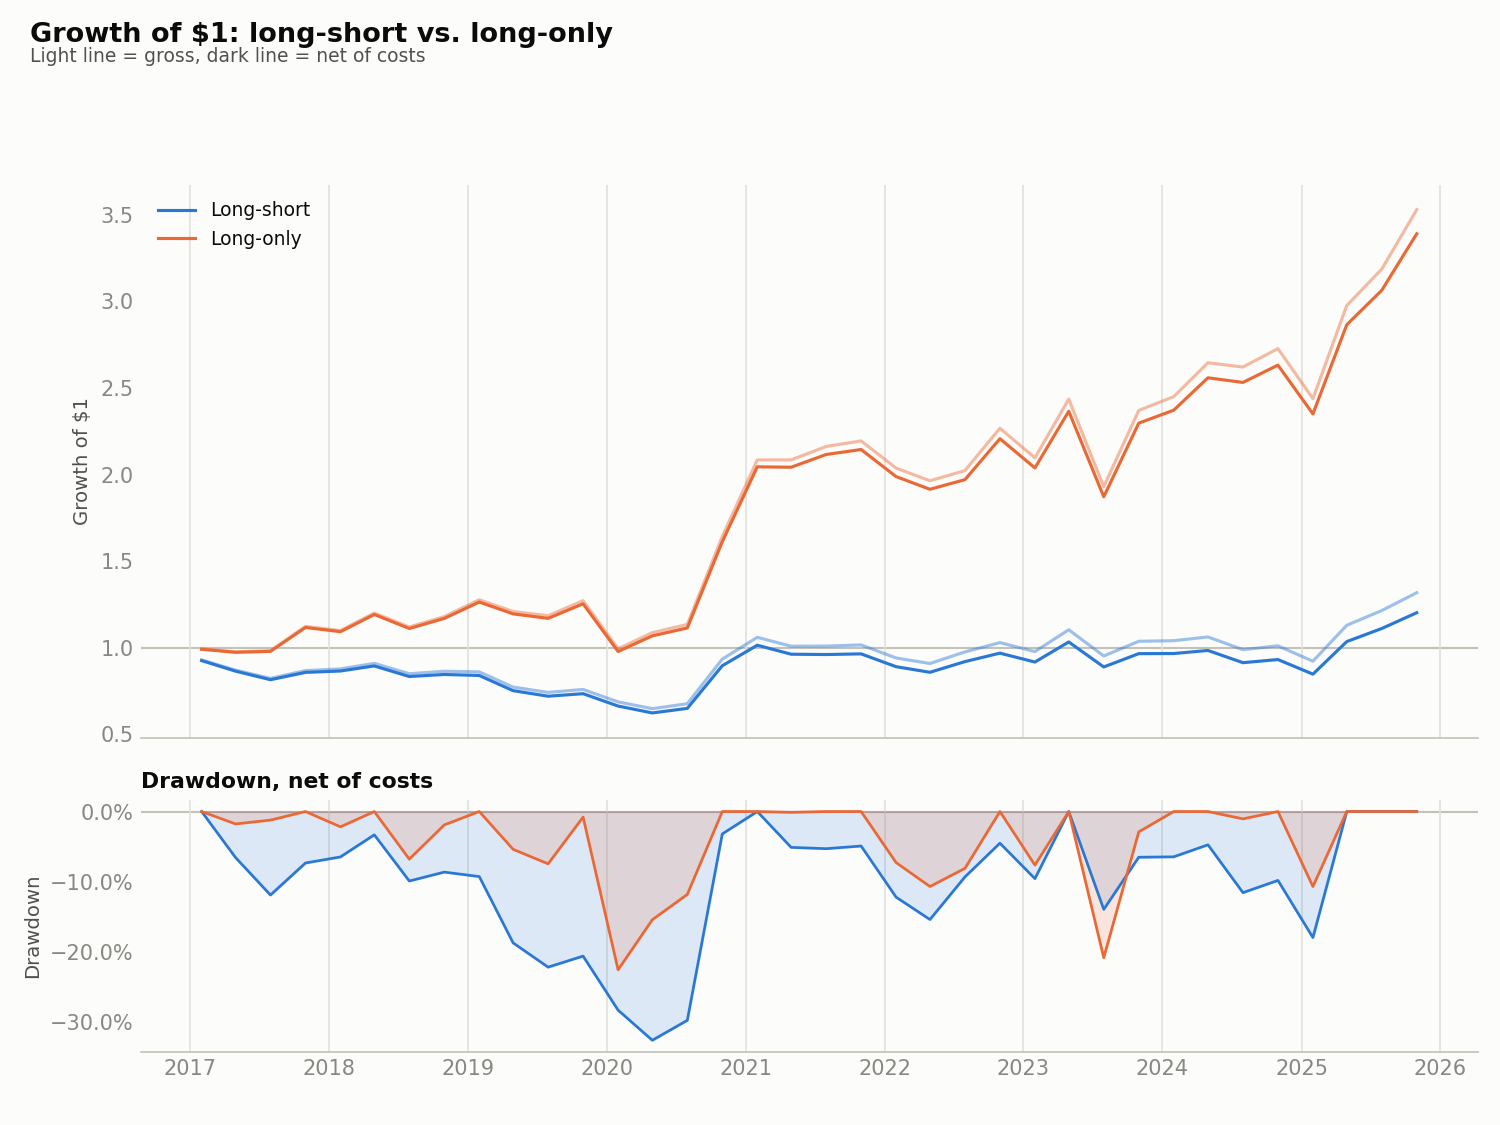
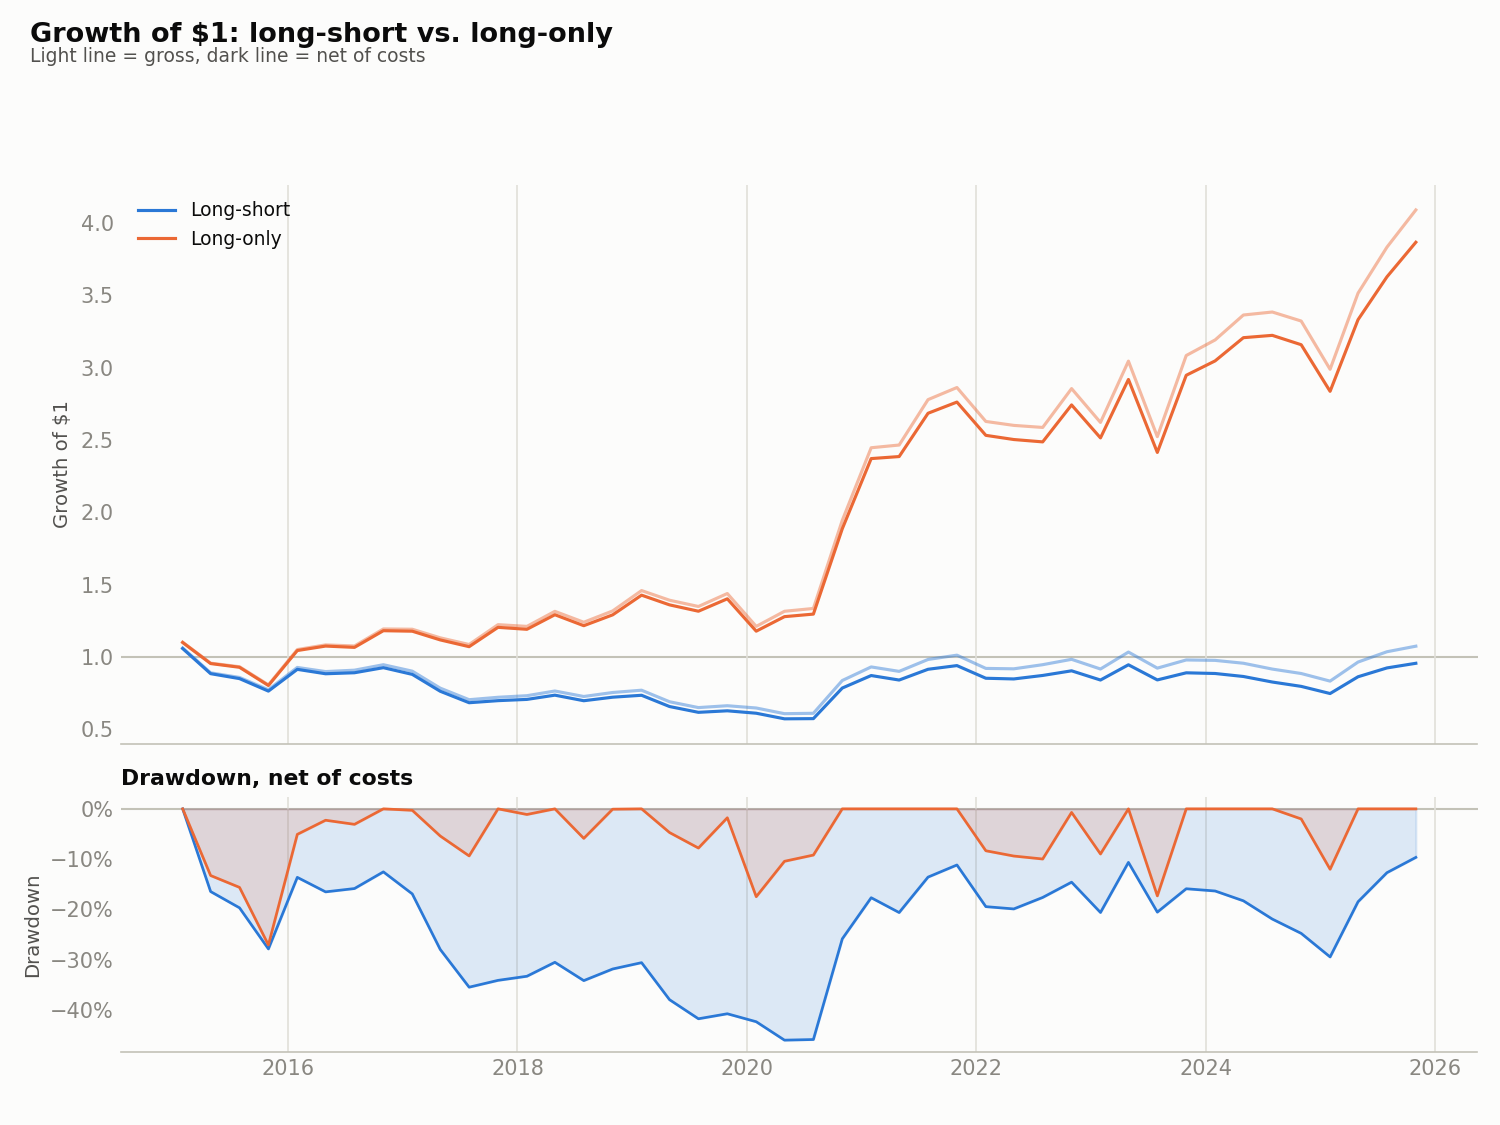
long-short to only long

diff --git a/src/visualize.py b/src/visualize.py
@@ -1,18 +1,19 @@
 """
 visualize.py
 
-Turns output/model_comparison.csv into a single at-a-glance figure. The
-comparison table's real story is gross-vs-net (the cost impact) and whether
-the Sharpe edge clears statistical significance -- so each panel is a
-dumbbell (gross -> net) per model rather than a plain bar chart, with the
-Sharpe panel additionally showing its bootstrap 95% CI and p-value.
+Turns output/portfolio_construction_comparison.csv into a single
+at-a-glance figure. The comparison table's real story is gross-vs-net
+(the cost impact) and whether the Sharpe edge clears statistical
+significance -- so each panel is a dumbbell (gross -> net) per row
+rather than a plain bar chart, with the Sharpe panel additionally
+showing its bootstrap 95% CI and p-value.
 
 Run standalone:
 
     python src/visualize.py
 
-or import plot_model_comparison() and call it right after
-compare_models(...).to_csv(...) in main.py.
+or import plot_portfolio_construction_comparison() and call it right
+after compare_portfolio_constructions(...).to_csv(...) in main.py.
 """
 
 import pandas as pd
@@ -49,24 +50,27 @@ def _style_axes(ax):
     ax.set_axisbelow(True)
 
 
-def _dumbbell(ax, df, gross_col, net_col, title, fmt="{:.2f}",
+def _dumbbell(ax, df, gross_col, net_col, title, colors, labels, fmt="{:.2f}",
               gross_ci=None, net_ci=None):
-    """One row per model: a thin line from gross (light) to net (full
-    color), i.e. the standard 'before -> after' dumbbell for a cost-impact
-    comparison. Optional CI whiskers for gross/net (used for Sharpe only,
-    since that's the only metric with a bootstrap CI in the table)."""
-    models = list(df.index)
+    """One row per index entry: a thin line from gross (light) to net
+    (full color), i.e. the standard 'before -> after' dumbbell for a
+    cost-impact comparison. `colors`/`labels` map each df.index value to
+    a hex color / display name, so this generalizes to any row identity
+    (models, portfolio constructions, ...). Optional CI whiskers for
+    gross/net (used for Sharpe only, since that's the only metric with a
+    bootstrap CI in the table)."""
+    rows = list(df.index)
 
-    for i, model in enumerate(models):
-        color = COLORS.get(model, INK_MUTED)
-        gross, net = df.loc[model, gross_col], df.loc[model, net_col]
+    for i, row in enumerate(rows):
+        color = colors.get(row, INK_MUTED)
+        gross, net = df.loc[row, gross_col], df.loc[row, net_col]
 
         if gross_ci:
-            lo, hi = df.loc[model, gross_ci[0]], df.loc[model, gross_ci[1]]
+            lo, hi = df.loc[row, gross_ci[0]], df.loc[row, gross_ci[1]]
             ax.plot([lo, hi], [i - 0.14, i - 0.14], color=color, alpha=0.3,
                      linewidth=1.5, solid_capstyle="round", zorder=0)
         if net_ci:
-            lo, hi = df.loc[model, net_ci[0]], df.loc[model, net_ci[1]]
+            lo, hi = df.loc[row, net_ci[0]], df.loc[row, net_ci[1]]
             ax.plot([lo, hi], [i + 0.14, i + 0.14], color=color, alpha=0.55,
                      linewidth=1.5, solid_capstyle="round", zorder=0)
 
@@ -84,62 +88,71 @@ def _dumbbell(ax, df, gross_col, net_col, title, fmt="{:.2f}",
                     fontweight="bold")
 
     ax.axvline(0, color=BASELINE, linewidth=1, zorder=0)
-    ax.set_yticks(range(len(models)))
-    ax.set_yticklabels([MODEL_LABELS.get(m, m) for m in models], color=INK)
-    ax.set_ylim(-0.7, len(models) - 0.3)
+    ax.set_yticks(range(len(rows)))
+    ax.set_yticklabels([labels.get(r, r) for r in rows], color=INK)
+    ax.set_ylim(-0.7, len(rows) - 0.3)
     ax.set_title(title, color=INK, fontsize=11, fontweight="bold", loc="left")
     _style_axes(ax)
 
 
-def _turnover_panel(ax, df):
-    models = list(df.index)
-    colors = [COLORS.get(m, INK_MUTED) for m in models]
+def _turnover_panel(ax, df, colors, labels):
+    rows = list(df.index)
+    row_colors = [colors.get(r, INK_MUTED) for r in rows]
     turnover = df["turnover_mean"]
 
-    ax.barh(range(len(models)), turnover, color=colors, height=0.5, zorder=2)
-    for i, m in enumerate(models):
-        ax.annotate(f"{turnover[m]:.2f}x", (turnover[m], i),
+    ax.barh(range(len(rows)), turnover, color=row_colors, height=0.5, zorder=2)
+    for i, r in enumerate(rows):
+        ax.annotate(f"{turnover[r]:.2f}x", (turnover[r], i),
                     textcoords="offset points", xytext=(6, 0), va="center",
                     fontsize=8.5, color=INK)
 
-    ax.set_yticks(range(len(models)))
-    ax.set_yticklabels([MODEL_LABELS.get(m, m) for m in models], color=INK)
-    ax.set_ylim(-0.7, len(models) - 0.3)
+    ax.set_yticks(range(len(rows)))
+    ax.set_yticklabels([labels.get(r, r) for r in rows], color=INK)
+    ax.set_ylim(-0.7, len(rows) - 0.3)
     ax.set_xlim(0, max(turnover) * 1.25)
-    ax.set_title("Avg. quarterly turnover (long + short legs)", color=INK,
+    ax.set_title("Avg. quarterly turnover", color=INK,
                  fontsize=11, fontweight="bold", loc="left")
     _style_axes(ax)
 
 
-def plot_model_comparison(csv_path=None, out_path=None):
-    csv_path = Path(csv_path) if csv_path else OUTPUT_DIR / "model_comparison.csv"
-    out_path = Path(out_path) if out_path else OUTPUT_DIR / "model_comparison.png"
+def plot_portfolio_construction_comparison(csv_path=None, out_path=None):
+    """
+    Reads backtest.compare_portfolio_constructions's output (long-short
+    vs. long-only) and renders gross-vs-net Sharpe/return/drawdown
+    dumbbells plus a turnover panel -- the summary-stat companion to
+    plot_equity_curve's time-series view of the same two constructions.
+    """
+    csv_path = Path(csv_path) if csv_path else OUTPUT_DIR / "portfolio_construction_comparison.csv"
+    out_path = Path(out_path) if out_path else OUTPUT_DIR / "portfolio_construction_comparison.png"
 
-    df = pd.read_csv(csv_path, index_col="model")
+    df = pd.read_csv(csv_path, index_col="construction")
 
     fig, axes = plt.subplots(2, 2, figsize=(11, 8), facecolor=SURFACE)
-    fig.suptitle("Backtest performance: gross vs. net of transaction costs",
+    fig.suptitle("Backtest performance: long-short vs. long-only, gross vs. net",
                  fontsize=13, fontweight="bold", color=INK, x=0.02, ha="left")
     fig.text(
         0.02, 0.945,
-        f"Long top-decile / short bottom-decile, {int(df['n_periods'].iloc[0])} "
-        f"non-overlapping quarters, {df['cost_bps'].iloc[0]:.0f}bps assumed "
-        "round-trip cost -- light marker = gross, dark marker = net",
+        f"{int(df['n_periods'].iloc[0])} non-overlapping quarters, "
+        f"{df['cost_bps'].iloc[0]:.0f}bps assumed round-trip cost -- "
+        "light marker = gross, dark marker = net",
         fontsize=9, color=INK_SECONDARY,
     )
 
     _dumbbell(axes[0, 0], df, "sharpe", "sharpe_net", "Sharpe ratio",
+              CONSTRUCTION_COLORS, CONSTRUCTION_LABELS,
               gross_ci=("sharpe_ci_low", "sharpe_ci_high"),
               net_ci=("sharpe_net_ci_low", "sharpe_net_ci_high"))
     _dumbbell(axes[0, 1], df, "ann_return", "ann_return_net",
-              "Annualized return", fmt="{:+.1%}")
+              "Annualized return", CONSTRUCTION_COLORS, CONSTRUCTION_LABELS,
+              fmt="{:+.1%}")
     _dumbbell(axes[1, 0], df, "max_drawdown", "max_drawdown_net",
-              "Max drawdown", fmt="{:.1%}")
-    _turnover_panel(axes[1, 1], df)
+              "Max drawdown", CONSTRUCTION_COLORS, CONSTRUCTION_LABELS,
+              fmt="{:.1%}")
+    _turnover_panel(axes[1, 1], df, CONSTRUCTION_COLORS, CONSTRUCTION_LABELS)
 
     p_lines = [
-        f"{MODEL_LABELS.get(m, m)}: net Sharpe p={df.loc[m, 'sharpe_net_p_value']:.2f}"
-        for m in df.index
+        f"{CONSTRUCTION_LABELS.get(c, c)}: net Sharpe p={df.loc[c, 'sharpe_net_p_value']:.2f}"
+        for c in df.index
     ]
     fig.text(0.02, 0.005,
               "Bootstrap p-value, H0: Sharpe = 0 (net) -- " + "   |   ".join(p_lines),
@@ -212,8 +225,9 @@ def plot_equity_curve(returns_csv=None, out_path=None):
     """
     Cumulative growth of $1 over time, long-short vs. long-only, gross vs.
     net of costs, with net-of-cost underwater drawdown directly below.
-    This is the one thing the summary figures (plot_model_comparison's
-    bars, plot_ic_timeseries) don't show: HOW the return accrued --
+    This is the one thing the summary figures
+    (plot_portfolio_construction_comparison's bars, plot_ic_timeseries)
+    don't show: HOW the return accrued --
     steadily, in one lucky quarter, wiped out and rebuilt -- not just the
     endpoint annualized stats. `returns_csv` is the per-period return
     series (date, long_ret, short_ret, ls_ret, ls_ret_net, long_ret_net,
@@ -279,7 +293,7 @@ def plot_equity_curve(returns_csv=None, out_path=None):
 
 
 if __name__ == "__main__":
-    plot_model_comparison()
+    plot_portfolio_construction_comparison()
 
     ic_path = OUTPUT_DIR / "ic_gbm.csv"
     if ic_path.exists():

diff --git a/README.md b/README.md
@@ -30,30 +30,32 @@ overstates performance through survivorship or look-ahead bias.
 Produced by a full walk-forward run (60-month rolling train window, 2012–2026,
 467–492 point-in-time S&P 500 members per month), predicting **3-month
 forward relative return** (see Design decisions), evaluated on 36
-non-overlapping quarters via `output/model_comparison.csv`:
+non-overlapping quarters via `output/portfolio_construction_comparison.csv`
+(the `long_short` row — see Long-short vs. long-only below for the full
+table, including the `long_only` row):
 
 | Metric                          | XGBoost (`rank:ndcg`) |
 |----------------------------------|:------------------------:|
-| Annualized return (gross)        | 4.8%                     |
-| Annualized volatility             | 19.9%                    |
-| Sharpe (gross)                    | 0.24                     |
-| Sharpe 95% bootstrap CI (gross)   | [-0.50, 0.81]            |
-| Sharpe p-value, gross (H0: Sharpe=0) | 0.48                  |
-| **Annualized return, net of costs** | **3.8%**               |
-| **Sharpe, net of costs**          | **0.19**                 |
-| **Sharpe 95% bootstrap CI (net)** | **[-0.57, 0.76]**        |
-| **Sharpe p-value, net (H0: Sharpe=0)** | **0.58**            |
-| Max drawdown (gross / net)        | -30.3% / -32.7%          |
-| Avg. quarterly IC (Spearman)      | -0.008                   |
-| Avg. quarterly turnover (long+short) | 1.25                  |
+| Annualized return (gross)        | 4.4%                     |
+| Annualized volatility             | 22.2%                    |
+| Sharpe (gross)                    | 0.20                     |
+| Sharpe 95% bootstrap CI (gross)   | [-0.56, 0.76]            |
+| Sharpe p-value, gross (H0: Sharpe=0) | 0.56                  |
+| **Annualized return, net of costs** | **3.3%**               |
+| **Sharpe, net of costs**          | **0.15**                 |
+| **Sharpe 95% bootstrap CI (net)** | **[-0.63, 0.72]**        |
+| **Sharpe p-value, net (H0: Sharpe=0)** | **0.66**            |
+| Max drawdown (gross / net)        | -30.0% / -32.5%          |
+| Avg. quarterly IC (Spearman)      | -0.010                   |
+| Avg. quarterly turnover (long+short) | 1.28                  |
 | Assumed round-trip cost           | 20 bps per unit of combined long+short turnover |
 
-**Honest read of these numbers:** IC is essentially zero (-0.008) and
+**Honest read of these numbers:** IC is essentially zero (-0.010) and
 neither the gross nor net Sharpe clears statistical significance — at 36
-non-overlapping quarters, the gross Sharpe's 95% bootstrap CI is [-0.50,
-0.81] with a p-value of 0.48 against H0: Sharpe = 0, and net of a
-conservative 20bps round-trip cost it's weaker still (Sharpe 0.19,
-p=0.58). **The honest conclusion: this model shows no edge that's
+non-overlapping quarters, the gross Sharpe's 95% bootstrap CI is [-0.56,
+0.76] with a p-value of 0.56 against H0: Sharpe = 0, and net of a
+conservative 20bps round-trip cost it's weaker still (Sharpe 0.15,
+p=0.66). **The honest conclusion: this model shows no edge that's
 distinguishable from zero, gross or net.** This project demonstrates a
 leakage-aware, cost-aware, statistically-checked research pipeline — it
 does not demonstrate a validated source of alpha, and shouldn't be
@@ -89,30 +91,28 @@ decile only, no short leg) from the exact same predictions
 
 | Metric                  | Long-short | Long-only |
 |--------------------------|:----------:|:---------:|
-| Annualized return (gross)| 4.8%       | **17.1%** |
-| Annualized volatility    | 19.9%      | 25.2%     |
-| Sharpe (gross)           | 0.24       | **0.68**  |
-| Sharpe 95% bootstrap CI (gross) | [-0.50, 0.81] | **[0.06, 1.34]** |
-| Sharpe p-value, gross (H0: Sharpe=0) | 0.48 | **0.049** |
-| Sharpe, net of costs     | 0.19       | **0.66**  |
-| Sharpe p-value, net (H0: Sharpe=0) | 0.58 | **0.056** |
-| Max drawdown (gross)     | -30.3%     | **-22.2%**|
+| Annualized return (gross)| 4.4%       | **17.3%** |
+| Annualized volatility    | 22.2%      | 26.2%     |
+| Sharpe (gross)           | 0.20       | **0.66**  |
+| Sharpe 95% bootstrap CI (gross) | [-0.56, 0.76] | **[0.03, 1.32]** |
+| Sharpe p-value, gross (H0: Sharpe=0) | 0.56 | **0.055** |
+| Sharpe, net of costs     | 0.15       | **0.64**  |
+| Sharpe p-value, net (H0: Sharpe=0) | 0.66 | **0.063** |
+| Max drawdown (gross)     | -30.0%     | **-23.9%**|
 
 **Honest read:** the short leg still looks like a net drag, not a hedge
 earning its keep — long-only's Sharpe is roughly triple long-short's on
 both a gross and net basis, with a shallower max drawdown despite higher
-volatility. The gross p-value (0.049) now technically crosses the
-conventional 0.05 threshold, but I'm deliberately not calling this
-"significant": the net p-value (0.056) doesn't, and a result that flips
-sides of a threshold depending on whether costs are included, on n=36
-quarters, is exactly the kind of borderline result that threshold
-language oversells. **Two important caveats compound here, not one:**
-this comparison was run *after* already seeing the long-short result was
-weak (a post-hoc/multiple-comparisons risk), AND `colsample_bytree=0.7`
-(what moved these numbers from the earlier p≈0.06-0.07 read to
-p≈0.05-0.06) was itself chosen from a Tier 1 sweep that did not clear
-significance on its own (see Design decisions). Stacking a borderline
-hyperparameter choice on top of a post-hoc portfolio-construction
+volatility. Both p-values (0.055 gross, 0.063 net) sit just above the
+conventional 0.05 threshold — close enough that a small hyperparameter or
+sample change could tip it either way, which is itself evidence this
+shouldn't be read as "significant." **Two important caveats compound
+here, not one:** this comparison was run *after* already seeing the
+long-short result was weak (a post-hoc/multiple-comparisons risk), AND
+`colsample_bytree=0.7` (part of what moved these numbers versus earlier
+runs) was itself chosen from a Tier 1 sweep that did not clear
+significance on its own (see Design decisions). Stacking a hyperparameter
+choice that's itself not significant on top of a post-hoc portfolio-construction
 comparison is not how you accumulate confidence — "worth investigating
 further" is still the honest characterization, not "found alpha" (see
 Possible extensions for the proper next check: a paired test of whether
@@ -188,7 +188,8 @@ documented again in its docstring.
      `test_months=1, step_months=HORIZON` in `run_walk_forward`, so
      evaluation only takes one snapshot every 3 months and each quarter's
      return window is adjacent to, not overlapping, the next. `freq=4`
-     (not 12) is passed to `backtest.compare_models` to annualize correctly.
+     (not 12) is passed to `backtest.compare_portfolio_constructions` to
+     annualize correctly.
 - **Information Coefficient (Spearman rank correlation), not R²,** is
   the primary evaluation metric, since it evaluates rank order — what
   actually matters for a long-short portfolio built on ranks — rather
